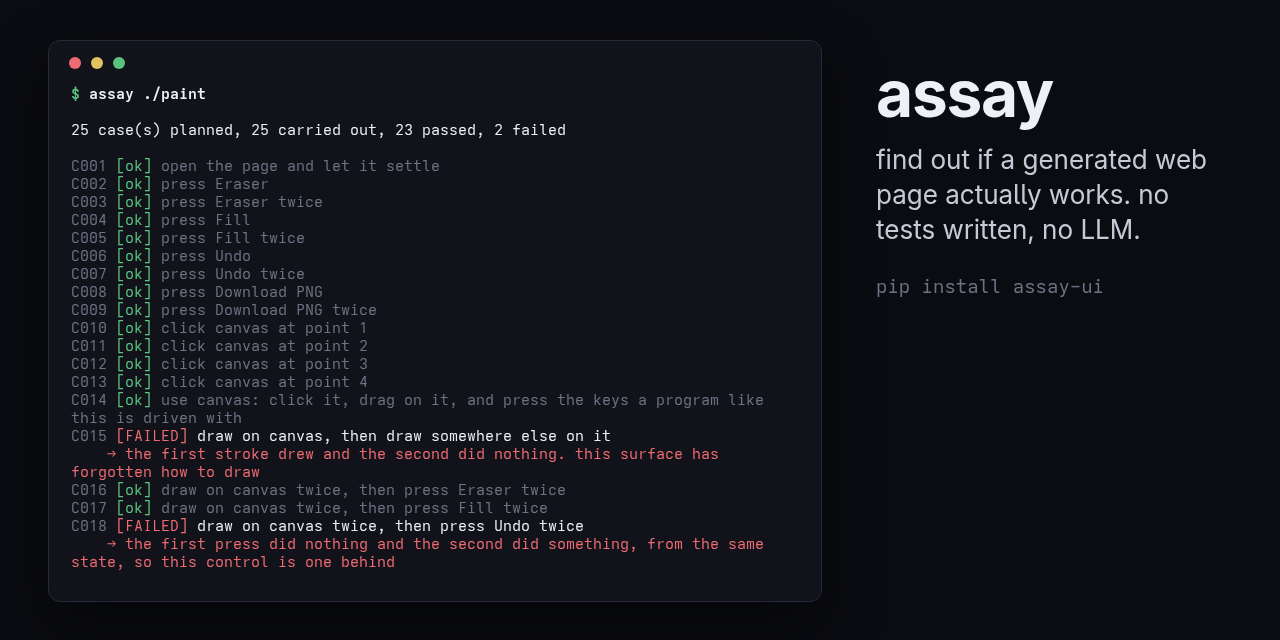
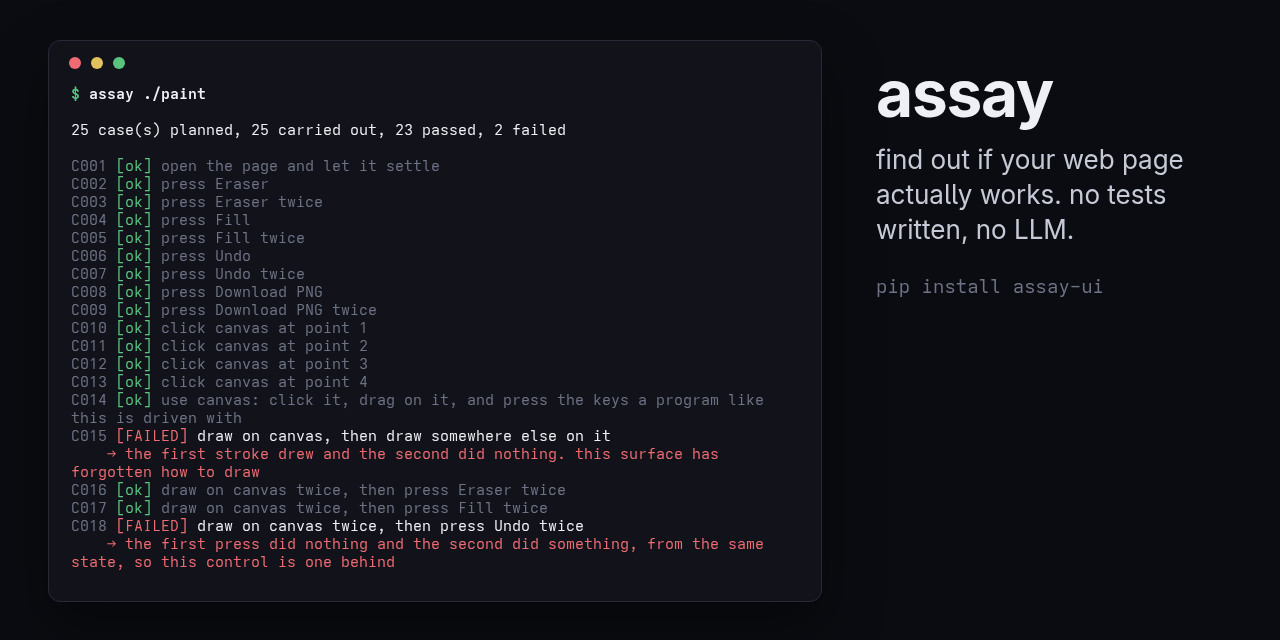
release 0.1.5: widen tagline to any web page

Changed region(s): [[0.6875, 0.2188, 0.9375, 0.375]]

diff --git a/src/assay/cli.py b/src/assay/cli.py
@@ -200,7 +200,7 @@ def main(argv: Optional[Sequence[str]] = None) -> int:
     """Check one folder and say what happened. Non-zero if anything failed."""
     ap = argparse.ArgumentParser(
         prog="assay",
-        description="Find out if a generated web page actually works. "
+        description="Find out if your web page actually works. "
                     "No tests written, no LLM.")
     ap.add_argument("folder",
                     help="the folder holding the program, or the page")

diff --git a/docs/social.py b/docs/social.py
@@ -65,7 +65,7 @@ def page(lines: list[str]) -> str:
 </div>
 <div class="side">
   <h1>assay</h1>
-  <p>find out if a generated web page actually works. no tests written, no LLM.</p>
+  <p>find out if your web page actually works. no tests written, no LLM.</p>
   <code>pip install assay-ui</code>
 </div>
 """
